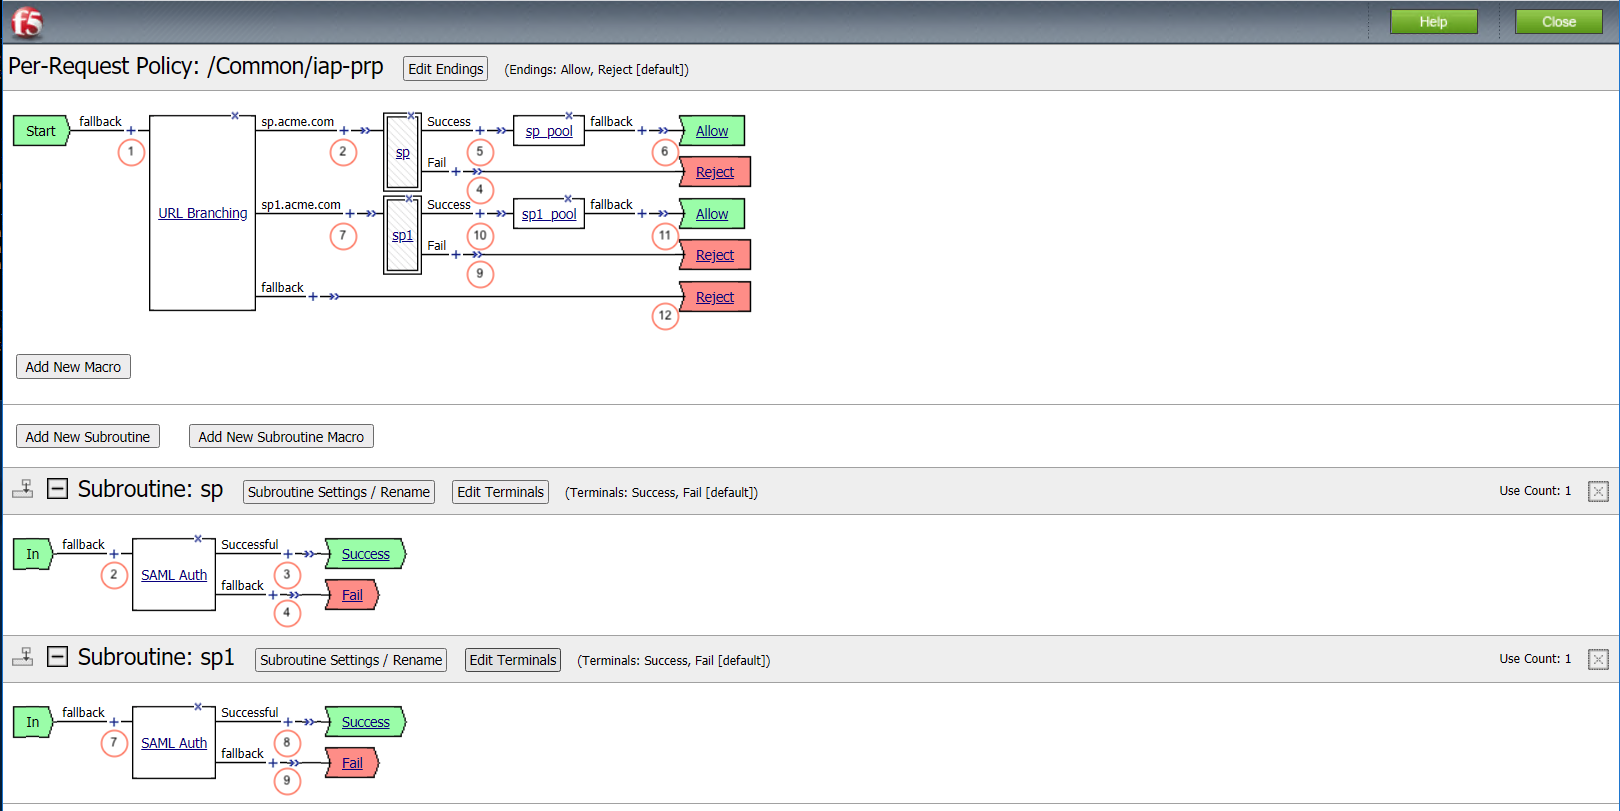
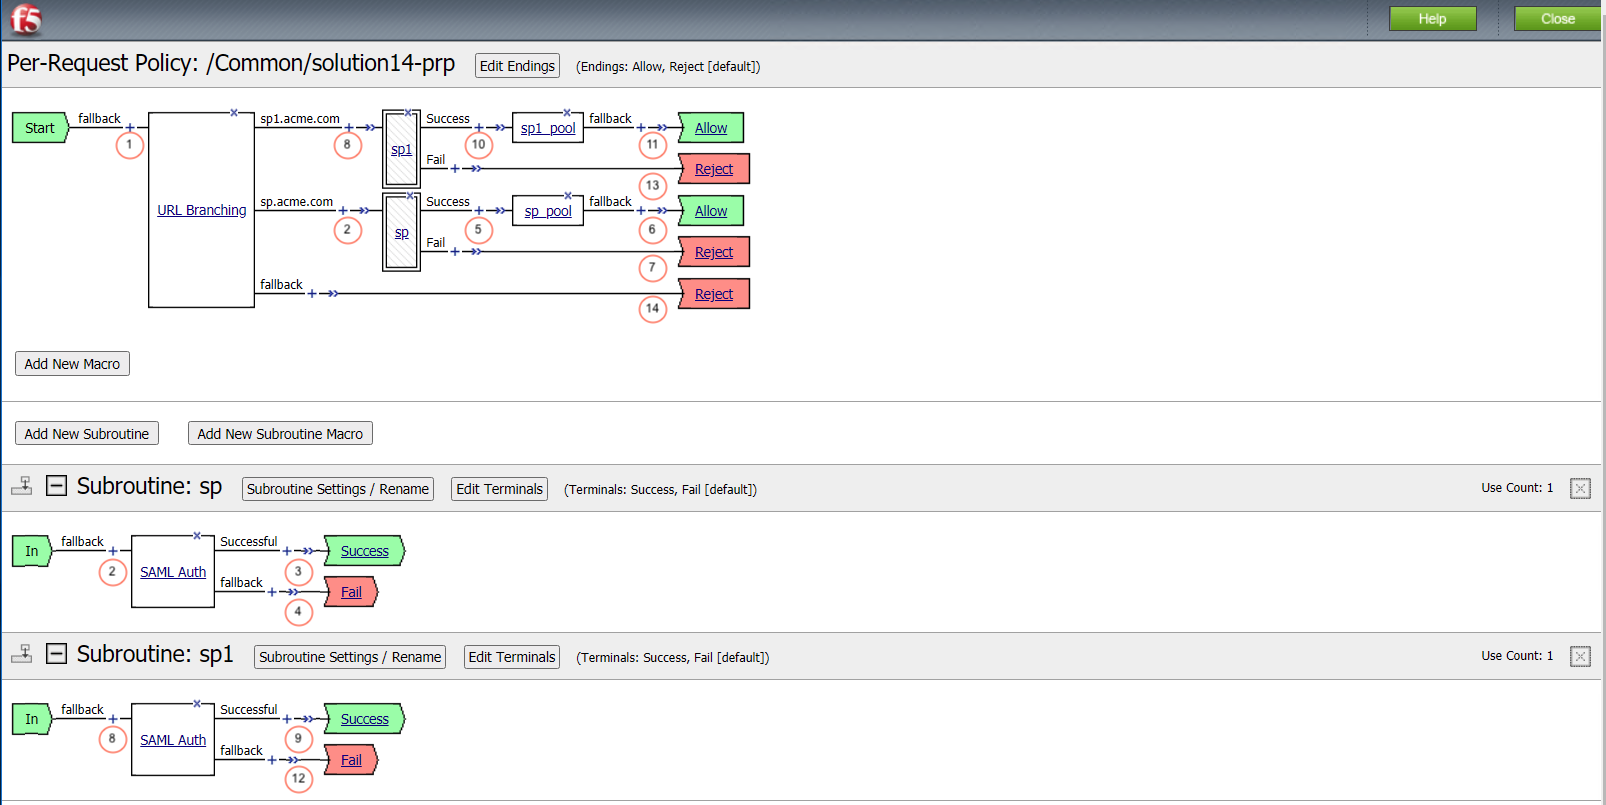
Changed guide.rst

Changed region(s): [[0.0, 0.0, 1.0, 1.0], [0.0, 0.4348, 0.0934, 0.4969], [0.0934, 0.3727, 0.1557, 0.4037]]

diff --git a/solution14/guide/guide.rst b/solution14/guide/guide.rst
@@ -19,16 +19,18 @@ Per-Request Policy Walk-Through
 This "per-request policy is the scaffolding to build service call to one or more authentication authorization services.
 
 #.  This URL Branching action is used to interrogate the service URL and vector it to the appropriate SAML-SP Subroutine.
-#.  This sp.acme.com success action branch enable the configured SAML-sp subroutine.
-#.	Successful authentication of user credentials against the application pool sp_pool.
-#.	Defines the service adderess location for https://sp.acme.com
-#.	Success branch for sp.acme.com
-#.	SAML SP authentucation failure branch.
-#.  This sp1.acme.com success action branch enable the configured SAML-sp1 subroutine.
-#.	Successful authentication of user credentials against the application pool sp1_pool.
-#.	Defines the service adderess location for https://sp1.acme.com
-#.	Success branch for sp1.acme.com
-#.	SAML SP1 authentucation failure branch.
+#.  When a user is directed to a SAML Auth agent they are redirected to the IDP selected by the SP Service(sp.acme.com).
+#.	Upon successful authentication at the IDP, the user is redirected back to the SP. The SP service consumes the Assertion. The user is directed to the Success Terminal.
+#.	Upon unsuccessful authentication, the user proceeds down the fallback branch and directed to the Fail Terminal.
+#.	Pool sp.acme.com-pool is assigned to the request for load balancing. Traitional LTM load balancing rules still apply.
+#.	The user is granted access via the Allow Terminal.
+#.	User credentials failed the selected authentication and is directed to the Reject Terminal.
+#.  When a user is directed to a SAML Auth agent they are redirected to the IDP selected by the SP Service(sp1.acme.com).
+#.	Upon successful authentication at the IDP, the user is redirected back to the SP. The SP service consumes the Assertion. The user is directed to the Success Terminal.
+#.	Upon unsuccessful authentication, the user proceeds down the fallback branch and directed to the Fail Terminal.
+#.	Pool sp1.acme.com-pool is assigned to the request for load balancing. Traitional LTM load balancing rules still apply.
+#.	The user is granted access via the Allow Terminal.
+#.	User credentials failed the selected authentication and is directed to the Reject Terminal.
 
 Policy Agent Configuration
 -------------------------------------
